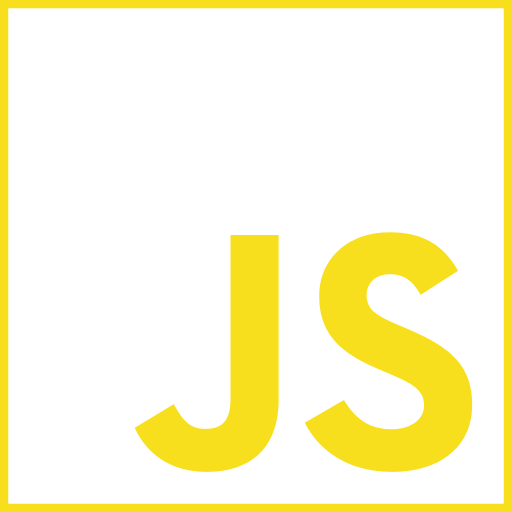
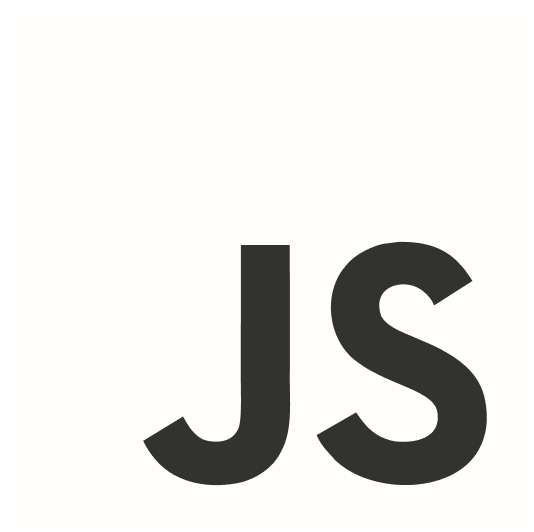
done

Changed region(s): [[0.0, 0.0, 1.0, 1.0], [0.5938, 0.4375, 0.9375, 0.9375], [0.25, 0.4375, 0.5625, 0.9375]]

diff --git a/style.css b/style.css
@@ -251,16 +251,18 @@ main .social-media .icon img {
   justify-content: center;
   align-items: center;
   flex-wrap: wrap;
-  gap: 30px;
+  gap: 40px;
 }
 
 
 
 .tech-stack .text-stack-icon .tech-image {
-  border-radius: 50%;
-  padding: 15px;
-  box-shadow: rgba(246, 246, 246, 0.07) 0px 1px 2px, rgba(255, 255, 255, 0.07) 0px 2px 4px, rgba(255, 255, 255, 0.07) 0px 4px 8px, rgba(255, 255, 255, 0.07) 0px 8px 16px, rgba(2, 79, 76, 0.07) 0px 16px 32px, rgba(0, 0, 0, 0.07) 0px 32px 64px;
-  background-color: #5c7caf8f;
+  border-radius: 20%;
+  /* border: 2px outset #05f0ecc4; */
+  padding: 12px;
+  box-shadow: rgba(0, 0, 0, 0.25) 0px 14px 28px, rgba(233, 233, 233, 0.22) 0px 10px 10px;
+  background: rgb(212, 212, 222);
+  background: linear-gradient(90deg, rgb(167, 167, 170) 0%, rgb(152, 152, 158) 35%);
 }
 
 
